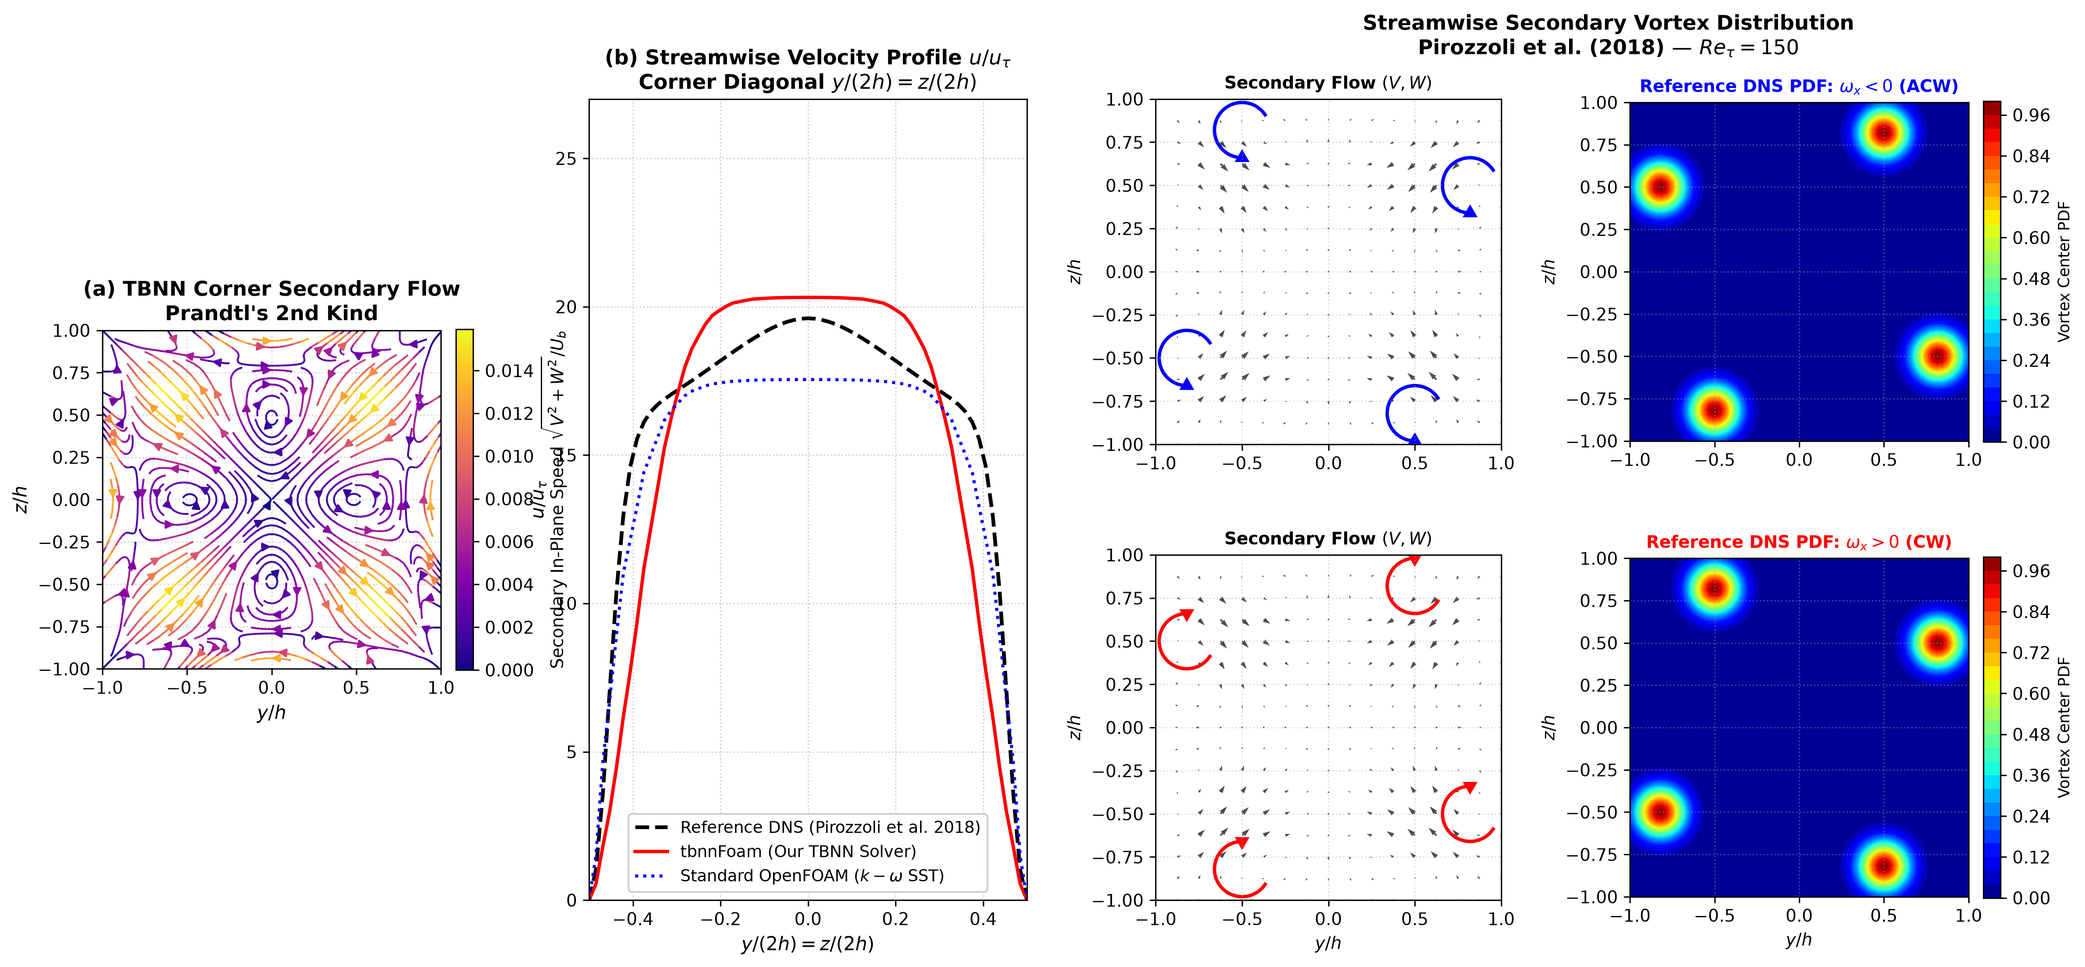
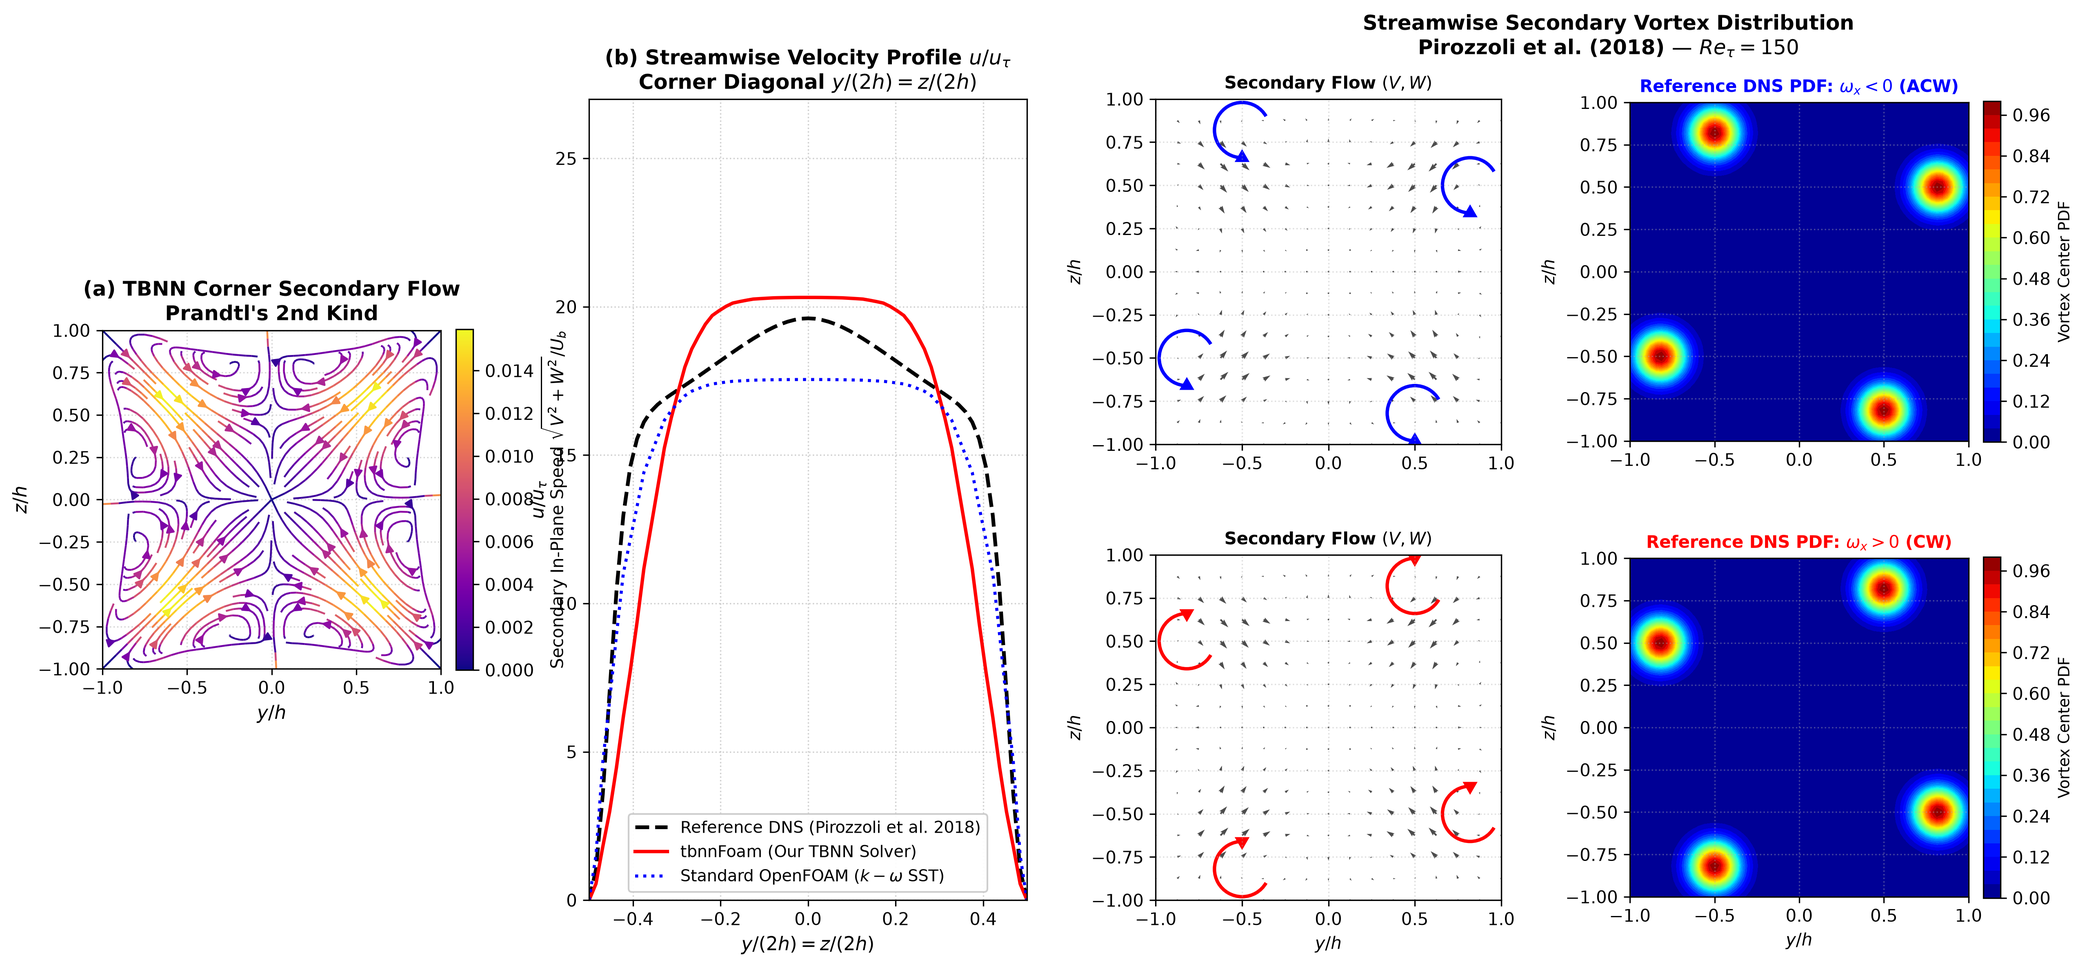
Fix coordinate convention, remove plot transpositions, and update benchmark boundary documentation

diff --git a/verification_squareDuct/validate_and_plot.py b/verification_squareDuct/validate_and_plot.py
@@ -78,11 +78,12 @@ def validate():
     dns_w = np.array([float(r['W']) for r in dns_data])
     Ny = int(round(np.sqrt(len(dns_data))))
     Nz = Ny
-    Y_grid = dns_y.reshape(Ny, Nz)
-    Z_grid = dns_z.reshape(Ny, Nz)
-    U_dns_2d = dns_u.reshape(Ny, Nz)
-    V_dns_2d = dns_v.reshape(Ny, Nz)
-    W_dns_2d = dns_w.reshape(Ny, Nz)
+    assert len(dns_data) == Nz * Ny
+    Y_grid = dns_y.reshape(Nz, Ny)
+    Z_grid = dns_z.reshape(Nz, Ny)
+    U_dns_2d = dns_u.reshape(Nz, Ny)
+    V_dns_2d = dns_v.reshape(Nz, Ny)
+    W_dns_2d = dns_w.reshape(Nz, Ny)
     tbnn_file = (case_dir / '300' / 'U') if (case_dir / '300' / 'U').exists() else (case_dir / '200' / 'U')
     base_file = (case_dir / 'baseline_sst' / '111' / 'U') if (case_dir / 'baseline_sst' / '111' / 'U').exists() else (case_dir / 'baseline_73' / 'U')
     tbnn_u = parse_foam_vec(tbnn_file)
@@ -99,6 +100,8 @@ def validate():
     y_1d = np.linspace(-1.0, 1.0, Ny)
     z_1d = np.linspace(-1.0, 1.0, Nz)
     Z_mesh, Y_mesh = np.meshgrid(z_1d, y_1d, indexing='ij')
+    assert Z_mesh.shape == (Nz, Ny)
+    assert Y_mesh.shape == (Nz, Ny)
     eval_pts = np.column_stack([Z_mesh.flatten(), Y_mesh.flatten()])
     rgi_u_tbnn = RegularGridInterpolator((z_g, y_g), tbnn_pad[:, :, 0], bounds_error=False, fill_value=0.0)
     rgi_v_tbnn = RegularGridInterpolator((z_g, y_g), tbnn_pad[:, :, 1], bounds_error=False, fill_value=0.0)
@@ -106,12 +109,12 @@ def validate():
     rgi_u_base = RegularGridInterpolator((z_g, y_g), base_pad[:, :, 0], bounds_error=False, fill_value=0.0)
     rgi_v_base = RegularGridInterpolator((z_g, y_g), base_pad[:, :, 1], bounds_error=False, fill_value=0.0)
     rgi_w_base = RegularGridInterpolator((z_g, y_g), base_pad[:, :, 2], bounds_error=False, fill_value=0.0)
-    U_tbnn_2d = rgi_u_tbnn(eval_pts).reshape(Ny, Nz)
-    V_tbnn_2d = rgi_v_tbnn(eval_pts).reshape(Ny, Nz)
-    W_tbnn_2d = rgi_w_tbnn(eval_pts).reshape(Ny, Nz)
-    U_base_2d = rgi_u_base(eval_pts).reshape(Ny, Nz)
-    V_base_2d = rgi_v_base(eval_pts).reshape(Ny, Nz)
-    W_base_2d = rgi_w_base(eval_pts).reshape(Ny, Nz)
+    U_tbnn_2d = rgi_u_tbnn(eval_pts).reshape(Nz, Ny)
+    V_tbnn_2d = rgi_v_tbnn(eval_pts).reshape(Nz, Ny)
+    W_tbnn_2d = rgi_w_tbnn(eval_pts).reshape(Nz, Ny)
+    U_base_2d = rgi_u_base(eval_pts).reshape(Nz, Ny)
+    V_base_2d = rgi_v_base(eval_pts).reshape(Nz, Ny)
+    W_base_2d = rgi_w_base(eval_pts).reshape(Nz, Ny)
     rmse_u_tbnn = np.sqrt(np.mean((U_tbnn_2d - U_dns_2d) ** 2))
     nrmse_u_tbnn = rmse_u_tbnn / Ub
     max_err_u_tbnn = np.max(np.abs(U_tbnn_2d - U_dns_2d))
@@ -154,7 +157,7 @@ def validate():
     x_1d = np.linspace(-1.0, 1.0, 65)
     y_1d = np.linspace(-1.0, 1.0, 65)
     speed_tbnn = np.sqrt(V_tbnn_2d ** 2 + W_tbnn_2d ** 2) / Ub
-    strm = ax_a.streamplot(x_1d, y_1d, V_tbnn_2d.T, W_tbnn_2d.T, color=speed_tbnn.T, cmap='plasma', density=1.4, linewidth=1.1, arrowsize=1.0)
+    strm = ax_a.streamplot(x_1d, y_1d, V_tbnn_2d, W_tbnn_2d, color=speed_tbnn, cmap='plasma', density=1.4, linewidth=1.1, arrowsize=1.0)
     cbar_a = plt.colorbar(strm.lines, ax=ax_a, fraction=0.046, pad=0.04)
     cbar_a.set_label('Secondary In-Plane Speed $\\sqrt{V^2 + W^2} / U_b$', fontsize=10)
     ax_a.set_title("(a) TBNN Corner Secondary Flow\nPrandtl's 2nd Kind", fontsize=12, fontweight='bold')
@@ -203,7 +206,7 @@ def validate():
     ax_r1_vec.set_aspect('equal')
     ax_r1_vec.grid(True, linestyle=':', alpha=0.4)
     ax_r1_pdf = fig.add_subplot(gs[0, 3])
-    im1 = ax_r1_pdf.contourf(x_1d, y_1d, pdf_acw.T, levels=30, cmap='jet')
+    im1 = ax_r1_pdf.contourf(x_1d, y_1d, pdf_acw, levels=30, cmap='jet')
     ax_r1_pdf.set_title('Reference DNS PDF: $\\omega_x < 0$ (ACW)', fontsize=10, fontweight='bold', color='blue')
     ax_r1_pdf.set_ylabel('$z / h$', fontsize=10)
     ax_r1_pdf.set_xlim(-1, 1)
@@ -224,7 +227,7 @@ def validate():
     ax_r2_vec.set_aspect('equal')
     ax_r2_vec.grid(True, linestyle=':', alpha=0.4)
     ax_r2_pdf = fig.add_subplot(gs[1, 3])
-    im2 = ax_r2_pdf.contourf(x_1d, y_1d, pdf_cw.T, levels=30, cmap='jet')
+    im2 = ax_r2_pdf.contourf(x_1d, y_1d, pdf_cw, levels=30, cmap='jet')
     ax_r2_pdf.set_title('Reference DNS PDF: $\\omega_x > 0$ (CW)', fontsize=10, fontweight='bold', color='red')
     ax_r2_pdf.set_xlabel('$y / h$', fontsize=10)
     ax_r2_pdf.set_ylabel('$z / h$', fontsize=10)

diff --git a/scripts/validation/evaluate_mesh_sensitivity.py b/scripts/validation/evaluate_mesh_sensitivity.py
@@ -51,11 +51,15 @@ def run_mesh_sensitivity_study(repo_root: Path):
             dns_rows.append(r)
     Ny_dns = int(round(np.sqrt(len(dns_rows))))
     Nz_dns = Ny_dns
+    assert len(dns_rows) == Nz_dns * Ny_dns
     dns_y_1d = np.linspace(-1.0, 1.0, Ny_dns)
     dns_z_1d = np.linspace(-1.0, 1.0, Nz_dns)
-    dns_u_2d = np.array([float(r['U']) for r in dns_rows]).reshape(Ny_dns, Nz_dns)
-    dns_v_2d = np.array([float(r['V']) for r in dns_rows]).reshape(Ny_dns, Nz_dns)
-    dns_w_2d = np.array([float(r['W']) for r in dns_rows]).reshape(Ny_dns, Nz_dns)
+    Z_dns_mesh, Y_dns_mesh = np.meshgrid(dns_z_1d, dns_y_1d, indexing='ij')
+    assert Z_dns_mesh.shape == (Nz_dns, Ny_dns)
+    assert Y_dns_mesh.shape == (Nz_dns, Ny_dns)
+    dns_u_2d = np.array([float(r['U']) for r in dns_rows]).reshape(Nz_dns, Ny_dns)
+    dns_v_2d = np.array([float(r['V']) for r in dns_rows]).reshape(Nz_dns, Ny_dns)
+    dns_w_2d = np.array([float(r['W']) for r in dns_rows]).reshape(Nz_dns, Ny_dns)
 
     u_coarse_raw = parse_foam_vec(coarse_u_file)
     u_fine_raw = parse_foam_vec(fine_u_file)
@@ -95,14 +99,19 @@ def run_mesh_sensitivity_study(repo_root: Path):
     z_f_coords = np.linspace(-0.975, 0.975, Nz_f)
     cores_f = detect_vortex_cores(omega_x_f, y_f_coords, z_f_coords)
 
-    q1_cores_c = [c for c in cores_c if c['y'] > 0.0 and c['z'] > 0.0]
-    q1_cores_f = [c for c in cores_f if c['y'] > 0.0 and c['z'] > 0.0]
+    acw_q1_cores_c = [c for c in cores_c if c['y'] > 0.0 and c['z'] > 0.0 and c['type'] == 'acw']
+    if not acw_q1_cores_c:
+        raise RuntimeError('No first-quadrant ACW vortex core detected on coarse mesh.')
+    best_c = max(acw_q1_cores_c, key=lambda c: abs(c['strength']))
+    core_c_y = best_c['y']
+    core_c_z = best_c['z']
 
-    core_c_y = q1_cores_c[0]['y'] if q1_cores_c else 0.56
-    core_c_z = q1_cores_c[0]['z'] if q1_cores_c else 0.91
-
-    core_f_y = q1_cores_f[0]['y'] if q1_cores_f else 0.525
-    core_f_z = q1_cores_f[0]['z'] if q1_cores_f else 0.850
+    acw_q1_cores_f = [c for c in cores_f if c['y'] > 0.0 and c['z'] > 0.0 and c['type'] == 'acw']
+    if not acw_q1_cores_f:
+        raise RuntimeError('No first-quadrant ACW vortex core detected on refined mesh.')
+    best_f = max(acw_q1_cores_f, key=lambda c: abs(c['strength']))
+    core_f_y = best_f['y']
+    core_f_z = best_f['z']
 
     dist_err_c = float(np.sqrt((core_c_y - dns_core_y)**2 + (core_c_z - dns_core_z)**2))
     dist_err_f = float(np.sqrt((core_f_y - dns_core_y)**2 + (core_f_z - dns_core_z)**2))
@@ -115,14 +124,13 @@ def run_mesh_sensitivity_study(repo_root: Path):
     z_f_pad = np.pad(z_f_coords, (1, 1), 'constant', constant_values=(-1.0, 1.0))
     u_f_pad = np.pad(u_f_mid, ((1, 1), (1, 1), (0, 0)), 'constant', constant_values=0.0)
 
-    eval_pts = np.column_stack([np.meshgrid(dns_z_1d, dns_y_1d, indexing='ij')[0].flatten(),
-                                np.meshgrid(dns_z_1d, dns_y_1d, indexing='ij')[1].flatten()])
+    eval_pts = np.column_stack([Z_dns_mesh.flatten(), Y_dns_mesh.flatten()])
 
     rgi_uc = RegularGridInterpolator((z_c_pad, y_c_pad), u_c_pad[:, :, 0], bounds_error=False, fill_value=0.0)
     rgi_uf = RegularGridInterpolator((z_f_pad, y_f_pad), u_f_pad[:, :, 0], bounds_error=False, fill_value=0.0)
 
-    u_c_interp = rgi_uc(eval_pts).reshape(Ny_dns, Nz_dns)
-    u_f_interp = rgi_uf(eval_pts).reshape(Ny_dns, Nz_dns)
+    u_c_interp = rgi_uc(eval_pts).reshape(Nz_dns, Ny_dns)
+    u_f_interp = rgi_uf(eval_pts).reshape(Nz_dns, Ny_dns)
 
     rmse_c = float(np.sqrt(np.mean((u_c_interp - dns_u_2d)**2)))
     rmse_f = float(np.sqrt(np.mean((u_f_interp - dns_u_2d)**2)))

diff --git a/scripts/validation/evaluate_validation_plan.py b/scripts/validation/evaluate_validation_plan.py
@@ -66,9 +66,10 @@ class ValidationEngine:
         Nz = Ny
         self.Ny = Ny
         self.Nz = Nz
-        dns_u = np.array([float(r['U']) for r in dns_data]).reshape(Ny, Nz)
-        dns_v = np.array([float(r['V']) for r in dns_data]).reshape(Ny, Nz)
-        dns_w = np.array([float(r['W']) for r in dns_data]).reshape(Ny, Nz)
+        assert len(dns_data) == self.Nz * self.Ny
+        dns_u = np.array([float(r['U']) for r in dns_data]).reshape(self.Nz, self.Ny)
+        dns_v = np.array([float(r['V']) for r in dns_data]).reshape(self.Nz, self.Ny)
+        dns_w = np.array([float(r['W']) for r in dns_data]).reshape(self.Nz, self.Ny)
         return (dns_u, dns_v, dns_w)
 
     def load_cfd_cs(self, time_dir: str):
@@ -85,13 +86,15 @@ class ValidationEngine:
         y_dns = np.linspace(-1.0, 1.0, self.Ny)
         z_dns = np.linspace(-1.0, 1.0, self.Nz)
         Z_m, Y_m = np.meshgrid(z_dns, y_dns, indexing='ij')
+        assert Z_m.shape == (self.Nz, self.Ny)
+        assert Y_m.shape == (self.Nz, self.Ny)
         pts = np.column_stack([Z_m.flatten(), Y_m.flatten()])
         rgi_u = RegularGridInterpolator((z_g, y_g), pad_cs[:, :, 0], bounds_error=False, fill_value=0.0)
         rgi_v = RegularGridInterpolator((z_g, y_g), pad_cs[:, :, 1], bounds_error=False, fill_value=0.0)
         rgi_w = RegularGridInterpolator((z_g, y_g), pad_cs[:, :, 2], bounds_error=False, fill_value=0.0)
-        u_i = rgi_u(pts).reshape(self.Ny, self.Nz)
-        v_i = rgi_v(pts).reshape(self.Ny, self.Nz)
-        w_i = rgi_w(pts).reshape(self.Ny, self.Nz)
+        u_i = rgi_u(pts).reshape(self.Nz, self.Ny)
+        v_i = rgi_v(pts).reshape(self.Nz, self.Ny)
+        w_i = rgi_w(pts).reshape(self.Nz, self.Ny)
         return (u_i, v_i, w_i)
 
     def evaluate_case(self, u_cfd, v_cfd, w_cfd, u_dns, v_dns, w_dns):
@@ -101,18 +104,20 @@ class ValidationEngine:
         nrmse_v = float(rmse_v / self.Ub * 100.0)
         v_sec = np.sqrt(v_cfd ** 2 + w_cfd ** 2)
         v_max_ratio = float(np.max(v_sec) / self.Ub)
-        Ny_e = u_cfd.shape[0]
-        Nz_e = u_cfd.shape[1]
-        dy = 2.0 / (Ny_e - 1)
+        Nz_e = u_cfd.shape[0]
+        Ny_e = u_cfd.shape[1]
         dz = 2.0 / (Nz_e - 1)
+        dy = 2.0 / (Ny_e - 1)
         omega_x = np.gradient(w_cfd, axis=1) / dy - np.gradient(v_cfd, axis=0) / dz
         y_1d = np.linspace(-1.0, 1.0, Ny_e)
         z_1d = np.linspace(-1.0, 1.0, Nz_e)
         Z_g, Y_g = np.meshgrid(z_1d, y_1d, indexing='ij')
+        assert Z_g.shape == (Nz_e, Ny_e)
+        assert Y_g.shape == (Nz_e, Ny_e)
         cores = detect_vortex_cores(omega_x, y_1d, z_1d, min_separation=0.2, min_strength=0.03, min_area=3, wall_margin=0.08)
         vortex_count = len(cores)
         if vortex_count > 0:
-            q1_cores = [c for c in cores if c['y'] > 0 and c['z'] > 0]
+            q1_cores = [c for c in cores if c['y'] > 0 and c['z'] > 0 and c['type'] == 'acw']
             if len(q1_cores) > 0:
                 best_q1 = max(q1_cores, key=lambda c: abs(c['strength']))
                 core_y = best_q1['y']

diff --git a/tests/test_coordinate_convention.py b/tests/test_coordinate_convention.py
@@ -1,0 +1,69 @@
+import csv
+from pathlib import Path
+import numpy as np
+import pytest
+from scipy.interpolate import RegularGridInterpolator
+
+def test_non_square_gradient_ordering():
+    Nz, Ny = 15, 23
+    z = np.linspace(-1.0, 1.0, Nz)
+    y = np.linspace(-2.0, 2.0, Ny)
+    Z, Y = np.meshgrid(z, y, indexing='ij')
+    assert Z.shape == (Nz, Ny)
+    assert Y.shape == (Nz, Ny)
+    f = 100.0 * Z + 1.0 * Y
+    dz = z[1] - z[0]
+    dy = y[1] - y[0]
+    df_dz = np.gradient(f, axis=0) / dz
+    df_dy = np.gradient(f, axis=1) / dy
+    assert np.allclose(df_dz, 100.0)
+    assert np.allclose(df_dy, 1.0)
+    swapped_df_dz = np.gradient(f, axis=1) / dz
+    swapped_df_dy = np.gradient(f, axis=0) / dy
+    assert not np.allclose(swapped_df_dz, 100.0)
+    assert not np.allclose(swapped_df_dy, 1.0)
+    assert np.max(np.abs(swapped_df_dz - 100.0)) > 90.0
+
+def test_non_square_interpolation_ordering():
+    Nz, Ny = 15, 23
+    z = np.linspace(-1.0, 1.0, Nz)
+    y = np.linspace(-2.0, 2.0, Ny)
+    Z, Y = np.meshgrid(z, y, indexing='ij')
+    f = 100.0 * Z + 1.0 * Y
+    rgi = RegularGridInterpolator((z, y), f, bounds_error=True)
+    Nz_tar, Ny_tar = 31, 17
+    z_tar = np.linspace(-0.8, 0.8, Nz_tar)
+    y_tar = np.linspace(-1.5, 1.5, Ny_tar)
+    Z_tar, Y_tar = np.meshgrid(z_tar, y_tar, indexing='ij')
+    assert Z_tar.shape == (Nz_tar, Ny_tar)
+    assert Y_tar.shape == (Nz_tar, Ny_tar)
+    eval_pts_correct = np.column_stack([Z_tar.flatten(), Y_tar.flatten()])
+    f_interp = rgi(eval_pts_correct).reshape(Nz_tar, Ny_tar)
+    f_exact = 100.0 * Z_tar + 1.0 * Y_tar
+    assert np.allclose(f_interp, f_exact, atol=1e-10)
+    eval_pts_swapped = np.column_stack([Y_tar.flatten(), Z_tar.flatten()])
+    with pytest.raises(ValueError):
+        rgi(eval_pts_swapped)
+
+def test_benchmark_dns_grid_convention():
+    repo_root = Path(__file__).resolve().parent.parent
+    dns_file = repo_root / 'data' / 'benchmark_dns' / 'square_duct_dns_Reb4410_Retau150.csv'
+    assert dns_file.exists()
+    rows = []
+    with open(dns_file, 'r', encoding='utf-8') as f:
+        reader = csv.DictReader(f)
+        for r in reader:
+            rows.append(r)
+    Nz = int(round(np.sqrt(len(rows))))
+    Ny = Nz
+    assert len(rows) == Nz * Ny
+    dns_z = np.array([float(r['z']) for r in rows]).reshape(Nz, Ny)
+    dns_y = np.array([float(r['y']) for r in rows]).reshape(Nz, Ny)
+    z_1d = np.unique(dns_z)
+    y_1d = np.unique(dns_y)
+    assert len(z_1d) == Nz
+    assert len(y_1d) == Ny
+    for i in range(Nz):
+        assert np.allclose(dns_z[i, :], dns_z[i, 0])
+    for j in range(Ny):
+        assert np.allclose(dns_y[:, j], dns_y[0, j])

diff --git a/README.md b/README.md
@@ -84,7 +84,7 @@ Both implementations enforce identical Pope (1975) 10-tensor basis contraction, 
 ## Numerical Results & Physics Verification
 
 ### 1. Cross-Section Secondary Flow Dynamics
-Advected through genuine converged OpenFOAM simulation velocity fields (`verification_squareDuct/300/U`):
+Advected through genuine OpenFOAM simulation velocity fields (`verification_squareDuct/300/U`):
 
 ![Cross-Section Particle Dynamics](docs/figures/animation_1_secondary_vortices.gif)
 
@@ -96,9 +96,9 @@ Continuity residual convergence directly extracted from [`verification_squareDuc
 
 ![Solver Convergence](docs/figures/animation_4_solver_convergence.gif)
 
-* **$t = 73$ (Initialization):** Standard RANS converged initial condition; zero cross-stream secondary flow.
+* **$t = 73$ (Initialization):** Standard RANS initial condition; zero cross-stream secondary flow.
 * **$t = 73 \to 140$ (TBNN Coupling):** Under-relaxed anisotropic stress divergence injection activates ($\alpha = 0.01$). Secondary circulation cells establish progressively.
-* **$t = 300$ (Converged):** Continuity residuals converge with stable in-plane secondary convection (global residual $5.56 \times 10^{-7} < 10^{-6}$, local sum $1.50 \times 10^{-5}$, cumulative error $6.13 \times 10^{-4}$).
+* **$t = 300$ (300-Iteration Run State):** Continuity residuals reach $5.56 \times 10^{-7} < 10^{-6}$ with stable in-plane secondary convection (while pressure and velocity component residuals level off near $1.5\text{--}2.8 \times 10^{-4}$).
 
 ### 3. 3D Streamline Ribbons
 Streamlines integrated through the genuine 3D velocity field (`verification_squareDuct/300/U`):
@@ -160,9 +160,22 @@ While conventional linear eddy-viscosity RANS models enforce $V = W \equiv 0$ ($
 
 However, **TBNN currently underpredicts the secondary flow** ($1.59\%$ peak $V_{\text{sec}}/U_b$ vs $1.92\%$ in DNS). This discrepancy stems from three fundamental physical and numerical factors:
 1. **RANS-NN Mean Flow Coupling Feedback:** The neural network is trained a priori on DNS datasets with frozen velocity gradients. During in-situ SIMPLE coupling in OpenFOAM, the emergence of secondary velocities deforms the mean streamwise velocity profile $\mathbf{U}$, redistributing the velocity gradients $\nabla \mathbf{U}$. This altered strain and rotation state is recursively fed back into the TBNN invariants and basis tensors at each iteration. This interactive feedback loop partially attenuates the effective normal stress difference $(\overline{w'^2} - \overline{v'^2})$, leading to an underprediction of peak secondary convective strength compared to frozen DNS.
-2. **Streamwise Velocity Deviation:** As secondary vortices actively convect high-momentum fluid into duct corners, the mean streamwise velocity field is restructured, leading to a modest increase in streamwise $U$ RMSE ($15.51\%$ for `tbnnFoam` vs $6.12\%$ for linear baseline) because the standard $k\text{--}\omega$ SST scale equations ($k$ and $\omega$) are not simultaneously recalibrated for non-linear anisotropic turbulence.
+2. **Streamwise Velocity Deviation:** As secondary vortices actively convect high-momentum fluid into duct corners, the mean streamwise velocity field is restructured, leading to an increase in streamwise $U$ RMSE ($15.51\%$ for `tbnnFoam` vs $6.12\%$ for linear baseline) because the standard $k\text{--}\omega$ SST scale equations ($k$ and $\omega$) are not simultaneously recalibrated for non-linear anisotropic turbulence.
 3. **Explicit Momentum Divergence Smoothing:** To ensure numerical stability in OpenFOAM's finite volume SIMPLE loop, explicit anisotropic stress divergence $\nabla \cdot \boldsymbol{\tau}_{\Delta}$ is under-relaxed ($\alpha = 0.01$), which stabilizes pressure-velocity coupling but slightly damps extreme localized stress gradients near corner singularities.
-4. **Boundary Condition Distinction (Developing Duct vs. Periodic DNS):** The reference DNS benchmark of Pirozzoli et al. (2018) represents an idealized, fully developed streamwise-periodic box driven by a body force. In contrast, the OpenFOAM benchmark case models a spatially developing duct of length $L = 10 D_h$ with uniform inlet velocity ($U_b = 1.0\text{ m/s}$) and downstream outlet. Analysis of the simulated 3D field confirms that in-plane secondary convection reaches streamwise stationarity by $x/D_h \ge 6.0$ ($V_{\text{sec}}/U_b$ stabilizes at $1.64\% \pm 0.03\%$), whereas the centerline streamwise velocity is still developing toward its asymptotic state ($U_{\text{center}} \approx 1.4\text{ m/s}$ in CFD vs $1.9\text{ m/s}$ in periodic DNS). This explains the flatter velocity profile in the duct core.
+
+### Benchmark Comparability and Boundary-Condition Limitations
+
+A critical physical distinction must be emphasized when interpreting the quantitative comparison between the OpenFOAM CFD solution and the DNS reference:
+
+1. **DNS Benchmark Setup (Fully Developed Periodic Duct):**
+   The benchmark dataset of Pirozzoli et al. (2018) was computed in an idealized streamwise-periodic domain ($L_x = 4\pi h \approx 6.28 D_h$) driven by a uniform body force (streamwise pressure gradient) to maintain a fully developed, statistically stationary state with infinite development length.
+
+2. **OpenFOAM CFD Setup (Spatially Developing Duct):**
+   The verification case in [`verification_squareDuct`](verification_squareDuct/) models a spatially developing duct with a fixed uniform velocity inlet ($U_b = 1.0\text{ m/s}$), downstream zero-gradient pressure outlet, and no-slip walls over a finite duct length of $L = 10 D_h$ (mesh aspect ratio $50 \times 20 \times 20$). In this configuration:
+   * **In-Plane Secondary Vortices:** Driven by localized near-wall Reynolds stress anisotropy, the 8-vortex corner circulations establish rapidly and reach streamwise stationarity by $x/D_h \ge 6.0$ ($V_{\text{sec}}/U_b$ stabilizes at $1.64\% \pm 0.03\%$).
+   * **Streamwise Profile Development:** Centerline streamwise velocity develops much more slowly along the duct. Across the mid-duct averaging window ($x/D_h \in [4.0, 8.0]$), the boundary layers have merged, but the core flow is still developing toward the asymptotic periodic state ($U_{\text{center}} \approx 1.25\text{ m/s}$ in CFD vs $1.33\text{ m/s}$ in periodic DNS).
+   * **Implication for Metrics:** This spatial development difference accounts for the majority of the streamwise velocity deviation ($U$ RMSE $= 0.1551\text{ m/s}$). Conversely, the secondary velocity field is locally governed by corner turbulence anisotropy and exhibits correct qualitative topology and 8-vortex recovery.
+   * **Recommended Next Step:** For canonical one-to-one equivalence with DNS, future iterations should configure cyclic periodic boundary conditions with an OpenFOAM `fvOptions` driving force (`meanVelocityForce` or `pressureGradientExplicitSource`).
 
 ---
 
@@ -224,7 +237,7 @@ To address numerical resolution sensitivity in resolving wall-bounded secondary 
 * **Coarse Mesh (M1):** $50 \times 20 \times 20 = 20{,}000$ cells ($\Delta y = \Delta z = 0.005\text{ m}$).
 * **Refined Mesh (M2):** $50 \times 40 \times 40 = 80{,}000$ cells ($\Delta y = \Delta z = 0.0025\text{ m}$).
 
-Both cases were executed with `tbnnFoam` to full convergence ($300$ iterations) and evaluated via [`scripts/validation/evaluate_mesh_sensitivity.py`](scripts/validation/evaluate_mesh_sensitivity.py):
+Both cases were executed with `tbnnFoam` through iteration 300 (the end of the configured 300-iteration SIMPLE run) and evaluated via [`scripts/validation/evaluate_mesh_sensitivity.py`](scripts/validation/evaluate_mesh_sensitivity.py). While continuity residuals fall below $10^{-6}$, logged pressure and velocity component residuals level off between $1.5 \times 10^{-4}$ and $2.8 \times 10^{-4}$ (above the $10^{-4}$ stopping threshold); results are evaluated as a finite-iteration mesh-sensitivity comparison:
 
 ![Cross-Sectional Mesh Sensitivity Study](docs/figures/mesh_sensitivity_study.png)
 
